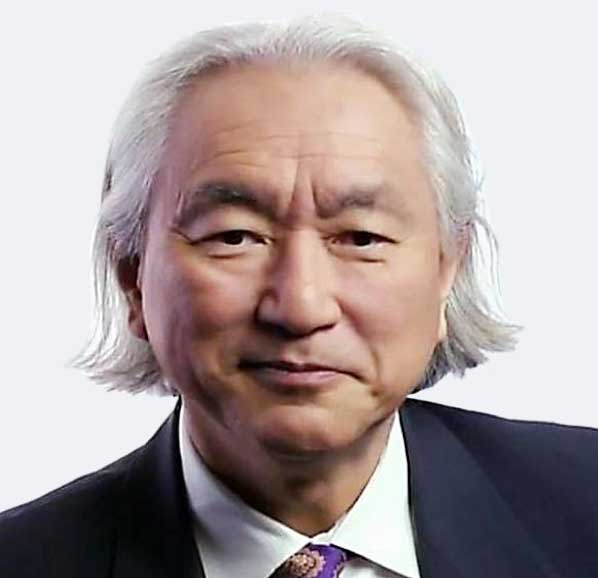
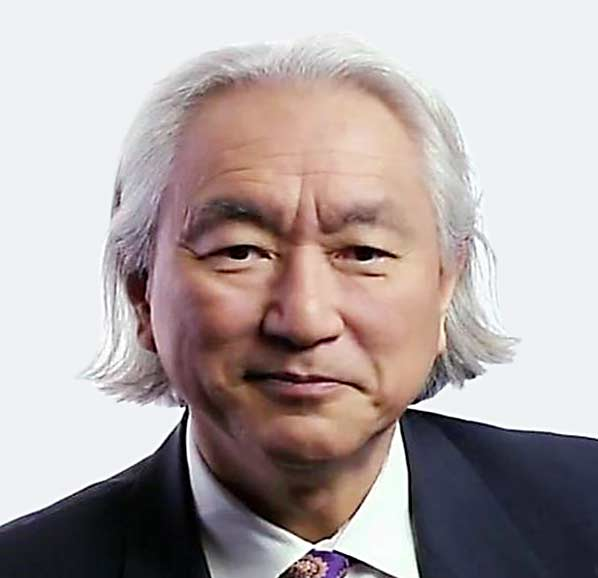
Updated two speaker headshots; added left/right arrows to swiper

Changed region(s): [[0.0, 0.0311, 1.0, 1.0], [0.4214, 0.2491, 0.4515, 0.2803], [0.3612, 0.2491, 0.3913, 0.2803]]

diff --git a/site/pages/index.css b/site/pages/index.css
@@ -559,3 +559,22 @@ hr.divider {
 .dr-kaku .q-company-profile__company {
 	margin-bottom: 47px;
 }
+.q-home-feed__pagination {
+	display: flex;
+}
+@media (min-width: 720px) {
+	.q-home-feed__pagination {
+		align-self: flex-start;
+		height: 44px;
+		float: right;
+		margin-top: -82px;
+	}
+	.q-home-feed__item {
+		width: 280px;
+	}
+
+}
+.q-home-feed__pagination-wrapper {
+	position: absolute;
+	width: 100vw;
+}
